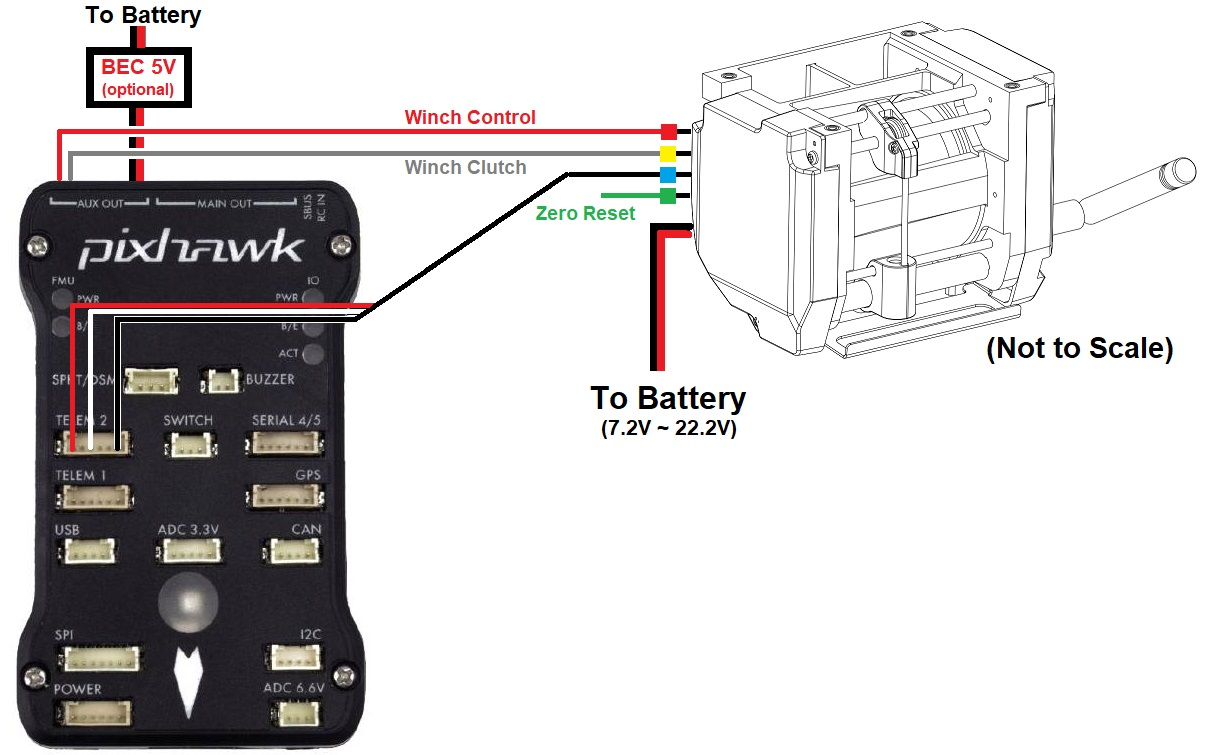
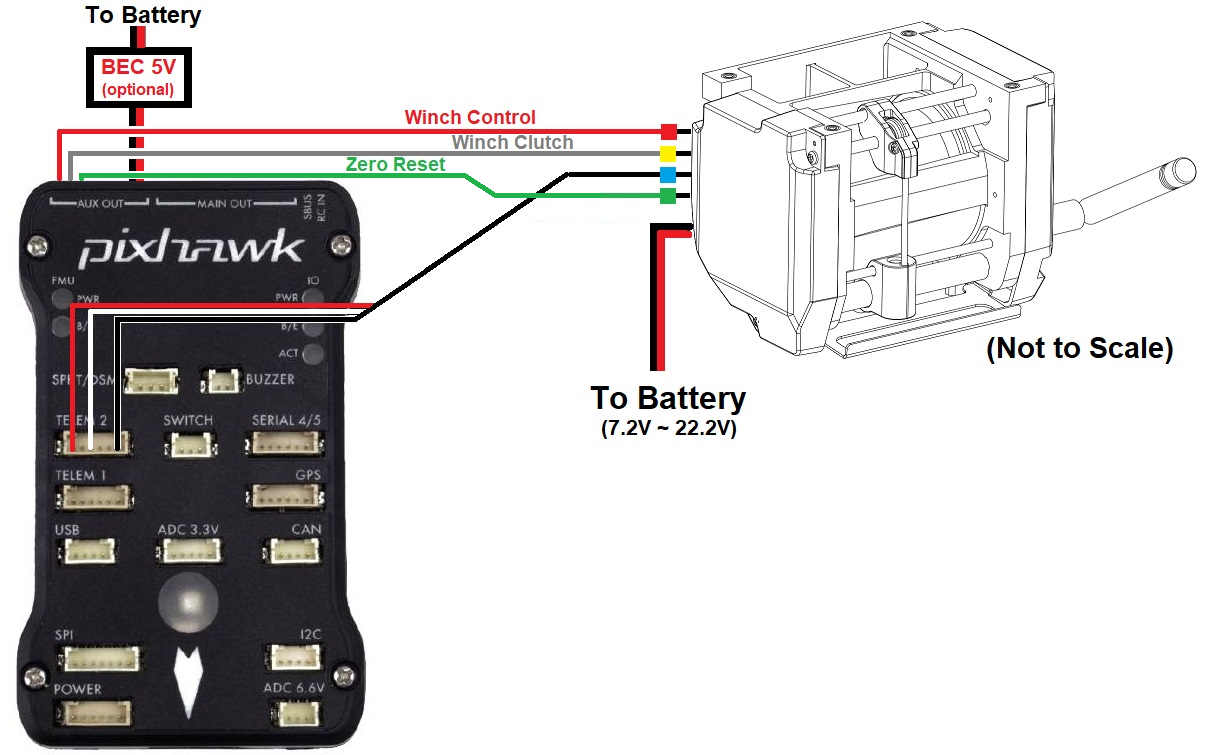
Copter: Mission Command List gets Do-Winch

Changed region(s): [[0.0613, 0.1828, 0.5211, 0.3046]]

diff --git a/common/source/docs/common-daiwa-winch.rst b/common/source/docs/common-daiwa-winch.rst
@@ -38,6 +38,7 @@ Connect the winch to the autopilot as shown below
 
 - Connect the 3-pin Winch Control wire (red cable tie) to AUX OUT 1 (aka Servo9)
 - Connect the 3-pin Winch Clutch wire (yellow cable tie) to AUX OUT 2 (aka Servo10)
+- Connect the 3-pin Winch Zero Reset wire (blue cable tie) to AUX OUT 3 (aka Servo11)
 - Connect the 3-pin Winch Telemetry wire (blue cable tie) to the Autopilot's Telem2 (or any other telemetry port)
 - The Zero Reset (green cable tie) used to calibrate the winch should be left disconnected
 - A 7.2V to 22.2V power supply is required to power the motors
@@ -54,6 +55,10 @@ Set the following parameters
 - :ref:`SERVO10_MIN <SERVO10_MIN>` = 1000
 - :ref:`SERVO10_TRIM <SERVO10_TRIM>` = 1500
 - :ref:`SERVO10_MAX <SERVO10_MAX>` = 2000
+- :ref:`SERVO11_FUNCTION <SERVO11_FUNCTION>` = 0 (Disabled)
+- :ref:`SERVO11_MIN <SERVO11_MIN>` = 1000
+- :ref:`SERVO11_TRIM <SERVO11_TRIM>` = 1500
+- :ref:`SERVO11_MAX <SERVO11_MAX>` = 2000
 - :ref:`SERIAL2_PROTOCOL <SERIAL2_PROTOCOL>` = 31 (Winch).  Note this assumes the Winch's telemetry is connected to SERIAL2 which is usually TELEM2 on most boards. Note that this does not necessarily correspond to UART2 on some boards.
 - :ref:`SERIAL2_BAUD <SERIAL2_BAUD>` = 38 (38400 baud) or 115 (115200 baud), depending on version of winch.
 - :ref:`RC6_OPTION <RC6_OPTION>` = 45 (Winch Control) to allow controlling the winch speed from the transmitter's channel 6 knob
@@ -61,10 +66,42 @@ Set the following parameters
 - :ref:`RC6_TRIM <RC6_TRIM>` = The mid value between :ref:`RC6_MIN <RC6_MIN>` and :ref:`RC6_MAX <RC6_MAX>` which is normally close to 1500
 - :ref:`RC8_OPTION <RC8_OPTION>` = 44 (Winch Enable) to allow relaxing the winch by pulling the transmitter's channel 8 switch low
 
-Controlling during Missions
----------------------------
+Winch Telemetry
+---------------
 
-The Winch can be controlled during Autonomous missions using the DO_WINCH mission command.
+The status of the winch can be viewed in real-time using Mission Planner or QGC's MAVLink Inspector window.  If using Mission Planner push the "MAVLink Inspector" button found under Setup, Advanced.
+
+.. image:: ../../../images/daiwa-winch-telemetry.png
+    :target: ../_images/daiwa-winch-telemetry.png
+    :width: 400px
+
+The winch's current draw, length of line, current speed (in m/s) temperature and voltage can all be seen.
+
+Zero Reset Line Length
+----------------------
+
+The winch constantly estimates how much line has been deployed and will stop retracting line once this estimated line length has reached zero in order to protect the line from being broken.  This estimate is prone to drift however meaning that you may find it impossible to completely retract the line or (less likely) it may retract too far and break the line.  To avoid these issues the line length estimate should be periodically reset to zero using the following procedure:
+
+- Power on the autopilot and winch
+- Connect with Mission Planner, open the Setup, Advanced screen and push the "MAVLink Inspector" button and check the current line length.
+- Retract the line (perhaps using the RC6 tuning knob) to within 20cm or so of the ideal minimum length
+- Open Mission Planner's Data, Servo/Relay tab, find the row for output 11
+- Push the "High" button to simultaneously retract the line and reset the line length to zero
+- Push the "Low" button to retracting the line
+
+.. image:: ../../../images/daiwa-winch-MP-zero-reset.png
+    :target: ../_images/daiwa-winch-MP-zero-reset.png
+    :width: 400px
+
+Control during Missions
+-----------------------
+
+The Winch can be controlled during Autonomous missions using the DO_WINCH mission command.  See the bottom of the :ref:`Copter Mission Command List <copter:mission-command-list>` for more details
+
+Winch-test Lua Script
+---------------------
+
+In cases where the vehicle will be well outside of RC range and no joystick is being used, the `winch-test lua script <https://raw.githubusercontent.com/ArduPilot/ardupilot/master/libraries/AP_Scripting/examples/winch-test.lua>`__ may be useful in order to allow manually raise or lower the line using Mission Planner's Aux Function page.
 
 Video
 -----

diff --git a/common/source/docs/common-mavlink-mission-command-messages-mav_cmd.rst b/common/source/docs/common-mavlink-mission-command-messages-mav_cmd.rst
@@ -203,6 +203,7 @@ This list of commands was inferred from the command handler in
 - :ref:`MAV_CMD_DO_GUIDED_LIMITS <mav_cmd_do_guided_limits>` (NAV_GUIDED only)
 - :ref:`MAV_CMD_DO_SET_RESUME_REPEAT_DIST <mav_cmd_do_set_resume_repeat_dist>`
 - :ref:`MAV_CMD_DO_FENCE_ENABLE <mav_cmd_do_fence_enable>`
+- :ref:`MAV_CMD_DO_WINCH<mav_cmd_do_winch>`
 - :ref:`MAV_CMD_STORAGE_FORMAT <mav_cmd_storage_format>`
 [/site]
 
@@ -4644,5 +4645,65 @@ Format SD Card. Useful for vehicles where SD card is inaccessible. Param1 and Pa
    </tr>
    </tbody>
    </table>
+
+[site wiki="copter" heading="off"]
+.. _mav_cmd_do_winch:
+
+MAV_CMD_DO_WINCH
+----------------
+
+Supported by: Copter.
+
+Control Winch operation.
+
+**Command parameters**
+
+.. raw:: html
+
+   <table border="1" class="docutils">
+   <tbody>
+   <tr>
+   <th>Command Field</th>
+   <th>Mission Planner Field</th>
+   <th>Description</th>
+   </tr>
+   <tr>
+   <td><strong>param1</strong></td>
+   <td>Winch no</td>
+   <td>Not currently used</td>
+   </tr>
+   <tr>
+   <td><strong>param2</strong></td>
+   <td>action</td>
+   <td>0 to relax the winch, 1 for Length control, 2 for Rate control</td>
+   </tr>
+   <tr>
+   <td><strong>param3</strong></td>
+   <td>length</td>
+   <td>should be filled in with the meters of line to release.  Positive numbers release the line, negative retract the line.  Note "action" should be "1"</td>
+   </tr>
+   <tr>
+   <td><strong>param4</strong></td>
+   <td>rate</td>
+   <td>should be filled in with the speed (in m/s) to release the line.  Positive numbers release the line, negative retract the line.  Note "action" should be "2".</td>
+   </tr>
+   <tr style="color: #c0c0c0">
+   <td>param5</td>
+   <td></td>
+   <td>Empty</td>
+   </tr>
+   <tr style="color: #c0c0c0">
+   <td>param6</td>
+   <td></td>
+   <td>Empty</td>
+   </tr>
+   <tr style="color: #c0c0c0">
+   <td>param7</td>
+   <td></td>
+   <td>Empty</td>
+   </tr>
+   </tbody>
+   </table>
+[/site]
 
 [copywiki destination="copter,plane,rover,planner,dev"]

diff --git a/copter/source/docs/mission-command-list.rst b/copter/source/docs/mission-command-list.rst
@@ -486,3 +486,16 @@ Do-Gripper
 
 This command allows opening and closing a :ref:`servo gripper <common-gripper-servo>` or :ref:`EPM gripper <common-cameras-and-gimbals>`.
 Set the "drop/grab" column to 0 to close the gripper, 1 to open the gripper.  The first column, "Gripper No" is ignored because we currently only support a single gripper per vehicle.
+
+Do-Winch
+~~~~~~~~
+
+.. image:: ../../../images/MissionList_DoWinch.png
+    :target: ../_images/MissionList_DoWinch.png
+
+This command allows controlling a :ref:`winch <common-daiwa-winch>` to raise or lower a package.
+
+- "winch no" is not used
+- "action" should be 0 to relax the winch, 1 for Length control, 2 for Rate control
+- "length" should be filled in with the meters of line to release.  Positive numbers release the line, negative retract the line.  Note "action" should be "1".
+- "rate" should be filled in with the speed (in m/s) to release the line.  Positive numbers release the line, negative retract the line.  Note "action" should be "2".
